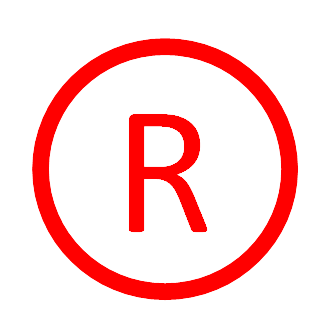
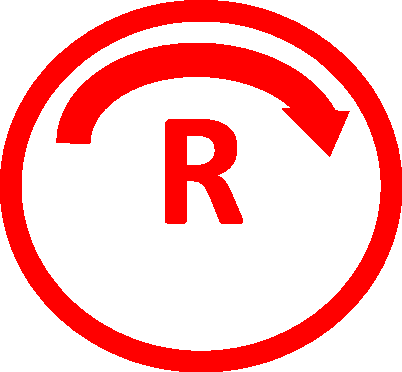
Updated

diff --git a/WebApp/ArcGIS_API_for_JavaScript/civil/Operational/MMSP_Utility_Relocation.html b/WebApp/ArcGIS_API_for_JavaScript/civil/Operational/MMSP_Utility_Relocation.html
@@ -960,7 +960,12 @@ var utilReloSymbolRenderer = {
                                  $feature.Status == 1 && $feature.LAYER == 3, 'NewlyAddedComplete', \
                                  $feature.Status == 1 && $feature.LAYER == 4, 'Retained', \
                                  $feature.Status == 0 && $feature.LAYER == 5, 'Replaced', \
-                                 $feature.Status == 1 && $feature.LAYER == 5, 'ReplaceComplete', $feature.Comp_Agency)",
+                                 $feature.Status == 1 && $feature.LAYER == 5, 'ReplaceComplete', \
+                                 $feature.Status == 0 && $feature.LAYER == 6, 'TemporaryDivertIncomplete', \
+                                 $feature.Status == 1 && $feature.LAYER == 6, 'TemporaryDivertComplete', \
+                                 $feature.Status == 0 && $feature.LAYER == 7, 'ReturnedIncomplete', \
+                                 $feature.Status == 1 && $feature.LAYER == 7, 'ReturnedComplete', \
+                                 $feature.Comp_Agency)",
           //field: "Company",
           uniqueValueInfos: [
           {
@@ -1058,6 +1063,46 @@ var utilReloSymbolRenderer = {
               label: "Retained",
               symbol: getUniqueValueSymbol(
                 "https://EijiGorilla.github.io/Symbols/UL_Retained.png",
+                "#D13470",
+                30,
+                "Relocation"
+              )
+            },
+            {
+              value: "TemporaryDivertIncomplete",
+              label: "To be Temporary Diverted",
+              symbol: getUniqueValueSymbol(
+                "https://EijiGorilla.github.io/Symbols/Temp_Diversion_Incomplete_Logo.png",
+                "#D13470",
+                30,
+                "Relocation"
+              )
+            },
+            {
+              value: "TemporaryDivertComplete",
+              label: "Temporary Diversion Completed",
+              symbol: getUniqueValueSymbol(
+                "https://EijiGorilla.github.io/Symbols/Temp_Diversion_Complete_Logo.png",
+                "#D13470",
+                30,
+                "Relocation"
+              )
+            },
+            {
+              value: "ReturnedIncomplete",
+              label: "To be Returned",
+              symbol: getUniqueValueSymbol(
+                "https://EijiGorilla.github.io/Symbols/Returned_Incomplete_Logo.png",
+                "#D13470",
+                30,
+                "Relocation"
+              )
+            },
+            {
+              value: "ReturnedComplete",
+              label: "Returned Completed",
+              symbol: getUniqueValueSymbol(
+                "https://EijiGorilla.github.io/Symbols/Returned_Complete_Logo.png",
                 "#D13470",
                 30,
                 "Relocation"
